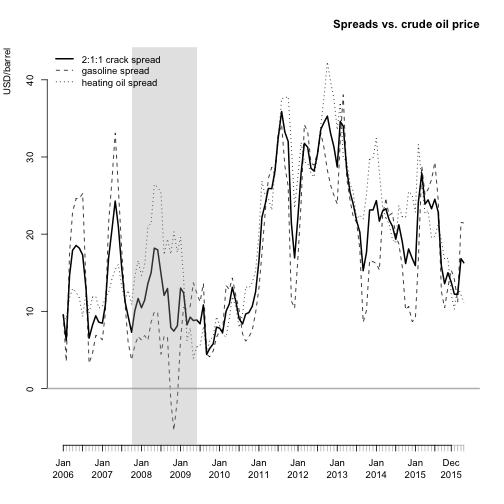
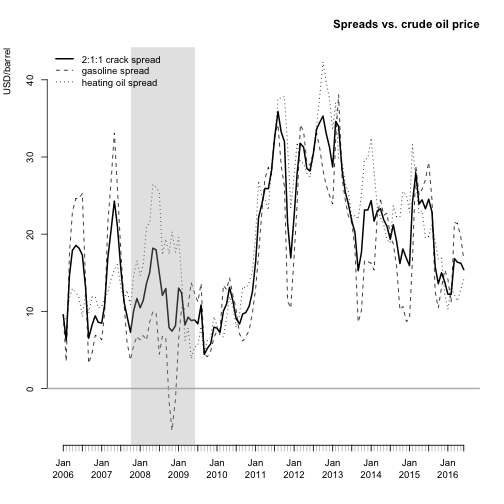
corrections

diff --git a/_posts/2016-04-24-What-drives-oil-prices.md b/_posts/2016-04-24-What-drives-oil-prices.md
@@ -27,10 +27,47 @@ Accordingly, 2:1:1 crack spread means that we have one barrel of gasoline and on
 In our analysis, we will use R and data from EIA API (for more details on how to download data, see the previous [post](http://petrbaca.github.io/2016/03/27/EIA-data/)). We will focus on futures based prices.
  
 
+{% highlight text %}
+## Loading required package: zoo
+{% endhighlight %}
+
+
+
+{% highlight text %}
+## 
+## Attaching package: 'zoo'
+{% endhighlight %}
+
+
+
+{% highlight text %}
+## The following objects are masked from 'package:base':
+## 
+##     as.Date, as.Date.numeric
+{% endhighlight %}
+
+
+
+{% highlight text %}
+## Loading required package: XML
+{% endhighlight %}
+
+
+
+{% highlight text %}
+## Loading required package: RCurl
+{% endhighlight %}
+
+
+
+{% highlight text %}
+## Loading required package: bitops
+{% endhighlight %}
+ 
+ 
  
 
 {% highlight r %}
-library("xts")
 tail(dat)
 {% endhighlight %}
 
@@ -38,12 +75,12 @@ tail(dat)
 
 {% highlight text %}
 ##            Crude Gasoline HeatingOil
-## 2016-04-19 41.08    1.480      1.263
-## 2016-04-20 42.63    1.507      1.332
-## 2016-04-21 43.18    1.516      1.300
-## 2016-04-22 43.73    1.531      1.309
-## 2016-04-25 42.64    1.513      1.290
-## 2016-04-26 44.04    1.566      1.333
+## 2016-06-21 48.85    1.593      1.517
+## 2016-06-22 49.13    1.588      1.505
+## 2016-06-23 50.11    1.604      1.521
+## 2016-06-24 47.64    1.525      1.455
+## 2016-06-27 46.33    1.477      1.429
+## 2016-06-28 47.85    1.510      1.471
 {% endhighlight %}
  
 Ok, now we have our data so let's calculate price spreads and also crack spreads. To do that, we first have to convert gasoline and heating oil prices from USD/gallon to USD/barrel (by multiplying by 42).
@@ -106,7 +143,6 @@ seas_dat <- ts(coredata(seas_dat),
                start = as.numeric(unlist(strsplit(as.character(start(seas_dat)), "-"))[1:2]),
                freq = 12)
  
- 
 seas_dat_sa <- stl(seas_dat[,1], s.window = 11)
 plot(seas_dat_sa, main = "Gasoline difference, seasonal decomposition")
 {% endhighlight %}
@@ -130,16 +166,5 @@ legend("topleft", legend = c("2015" ,"2016"), lty = c(1,3), lwd = 3, bty = "n")
 par(op)
 {% endhighlight %}
  
-While the first plot clearly shows there's a strong seasonal component, the second plot unveils that this year's situation is not extraordinary at all. Quite contrary, despite its recent surge, this year's gasoline crack spread is still below its medium-term median and below the levels observed last year. And that holds in spite of the fact that the most recent monhly set of data from the Energy Information Administration showed the largest increase in US gasoline consumption in about 40 years. So, at least for now, the US refineries seem to be well prepared for high summer demand for gasoline.
- 
 While the first plot clearly shows there's a strong seasonal component, the second plot unveils that this year's situation is not extraordinary. Quite contrary, despite the recent surge, this year's gasoline crack spread is still below its medium-term median and below the levels observed last year. And that holds in spite of the fact that the most recent monhly set of data from the Energy Information Administration showed the largest increase in US gasoline consumption in about 40 years. So, it looks like the US refineries are well prepared for peak summer demand for gasoline, at least for now.
- 
- 
- 
- 
- 
- 
- 
- 
- 
  
